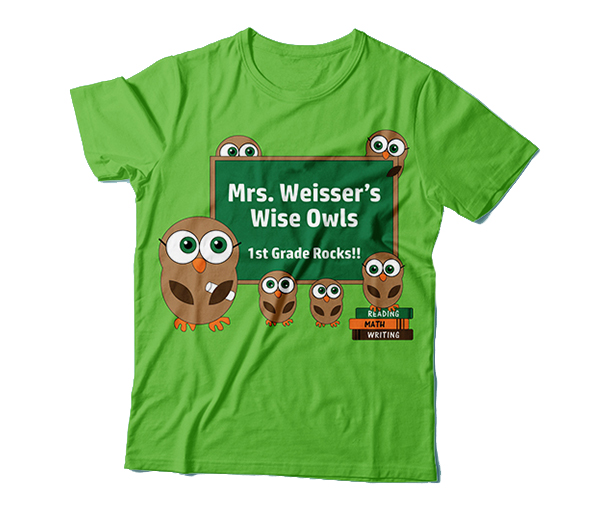
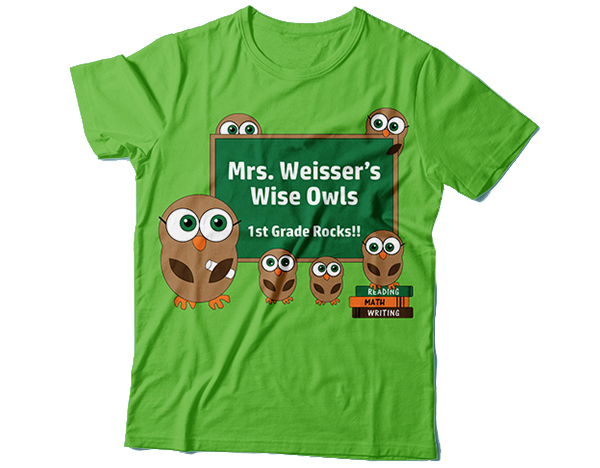
9-30-22 more updates

diff --git a/HTML/social.html b/HTML/social.html
@@ -45,14 +45,29 @@
 
     <div class="container">
         <h2 class="grid color5 py-3 mx-sm-5">Social</h2>
+        <div class="row justify-content-center">
+          <div class="col-12 col-lg-3">
+            <div class="sticky-lg-top p-4"><p>The first image i designed when I worked at Tenet healthcare for their social media campaign.</p><p>The following images I designed for MovieTickets.com’s Facebook, Twitter, and Instagram. The purpose of most of these images was to promote a chance to win free movie tickets. The last image was a gif I created for them.</p>
+            </div>
+          </div>
+          <div class="col-12 col-lg-6 mt-lg-3">
+            <img class="img-fluid mb-4 float-end" src="/images/social/sun.jpg" alt="social-1">
+            <img class="img-fluid mb-4 float-end" src="/images/social/groot.jpg" alt="social-2">
+            <img class="img-fluid mb-4 float-end" src="/images/social/wrinkle.jpg" alt="social-3">
+            <img class="img-fluid mb-4 float-end" src="/images/social/smurf.jpg" alt="social-4">
+            <img class="img-fluid mb-4 float-end" src="/images/social/valentine.jpg" alt="social-5">
+            <img class="img-fluid mb-4 float-end" src="/images/social/holiday.jpg" alt="social-6">
+            <img class="img-fluid mb-4 float-end" src="/images/social/vudu.jpg" alt="social-7">
+            <img class="img-fluid mb-4 float-end" src="/images/social/newyears.gif" alt="social-8">
 
-            TEST
+          </div>
+        </div>
     </div>
 
     <footer class="bottom">
       <div class="row justify-content-center">
         <div class="col-6 col-md-2">
-          <a href="/html/infographics.html"><i class="fa fa-arrow-left"></i><span style="font-family: 'Segoe UI', Tahoma, Geneva, Verdana, sans-serif;">&nbsp;PREV</a>&emsp;<a href="/html/shirts.html">NEXT&nbsp;</span><i class="fa fa-arrow-right"></i></a></p>
+          <a href="/html/illustrations.html"><i class="fa fa-arrow-left"></i><span style="font-family: 'Segoe UI', Tahoma, Geneva, Verdana, sans-serif;">&nbsp;PREV</a>&emsp;<a href="/html/shirts.html">NEXT&nbsp;</span><i class="fa fa-arrow-right"></i></a></p>
         </div>
       </div>
       <hr>

diff --git a/HTML/shirts.html b/HTML/shirts.html
@@ -47,10 +47,10 @@
         <h2 class="grid color6 py-3 mx-sm-5">Shirts</h2>
         <div class="row justify-content-center">
           <div class="col-12 col-lg-3">
-            <div class="sticky-lg-top p-4"><p>The goal of the first three projects were to come up with a layout to display the information in a visually pleasing way.</p><p>The last image displays what I put together that was live on the Android, iPhone, iPad, and tablet app stores under MovieTickets.com.</p>
+            <div class="sticky-lg-top p-4"><p>Here are some examples of shirts I’ve designed.</p><p>The goal of the first two projects was to design shirts for the company’s anniversaries.</p> <p>The third image displays a t-shirt design I created for a first grade class. This concept was a representation of the children's classroom using their mascot, owls.</p>
             </div>
           </div>
-          <div class="col-12 col-lg-6 mt-lg-3 p-4">
+          <div class="col-12 col-lg-6 mt-lg-3">
             <img class="img-fluid mb-4 float-end" src="/images/shirts/16Anniversary.jpg" alt="shirt1">
             <img class="img-fluid mb-4 float-end" src="/images/shirts/17Anniversary.jpg" alt="shirt2">
             <img class="img-fluid mb-4 float-end" src="/images/shirts/firstgradeshirt.jpg" alt="shirt3">

diff --git a/HTML/infographics.html b/HTML/infographics.html
@@ -65,7 +65,7 @@
 
       <div class="row justify-content-center">
         <div class="col-6 col-md-2">
-          <a href="/html/print.html"><i class="fa fa-arrow-left"></i><span style="font-family: 'Segoe UI', Tahoma, Geneva, Verdana, sans-serif;">&nbsp;PREV</a>&emsp;<a href="/html/social.html">NEXT&nbsp;</span><i class="fa fa-arrow-right"></i></a></p>
+          <a href="/html/print.html"><i class="fa fa-arrow-left"></i><span style="font-family: 'Segoe UI', Tahoma, Geneva, Verdana, sans-serif;">&nbsp;PREV</a>&emsp;<a href="/html/logos.html">NEXT&nbsp;</span><i class="fa fa-arrow-right"></i></a></p>
         </div>
       </div>
 
